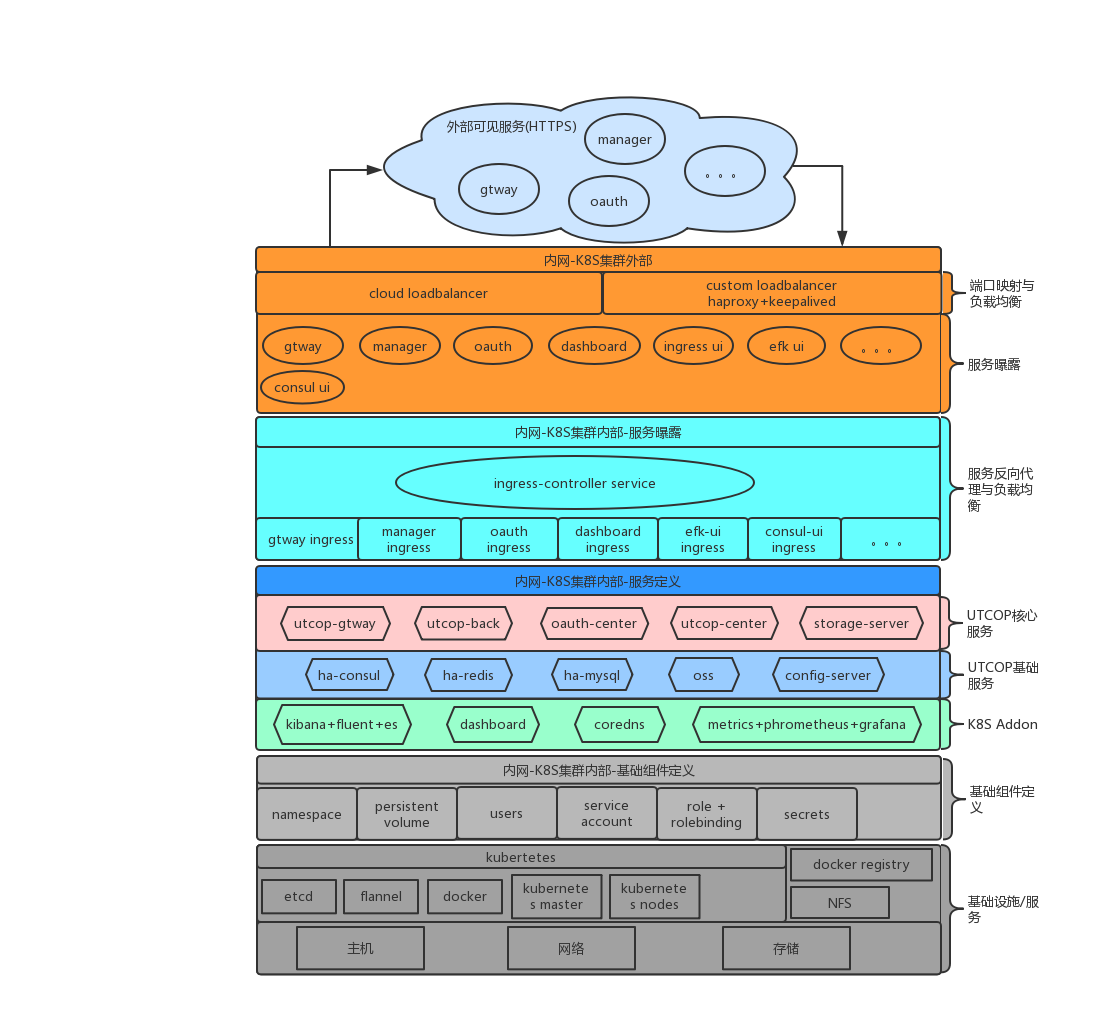
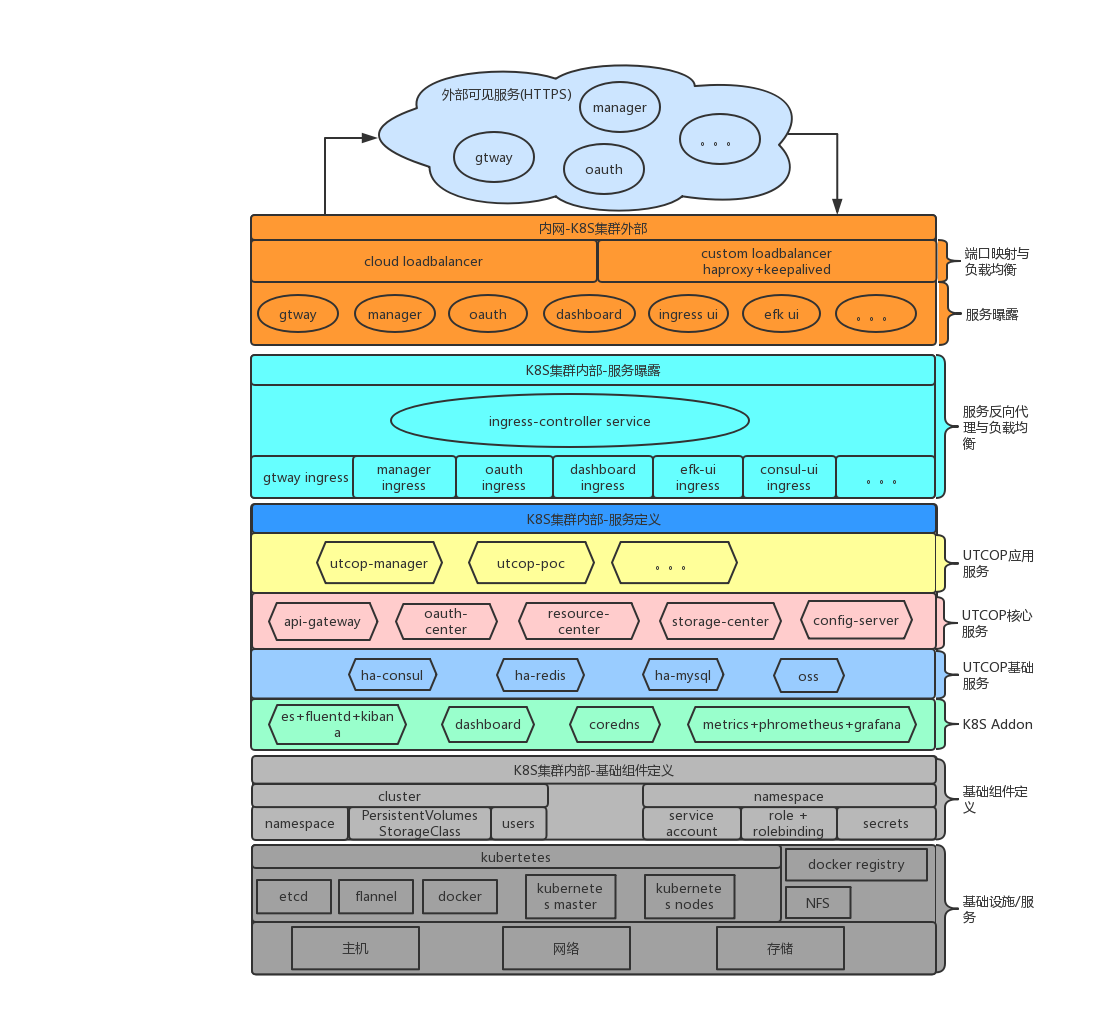
modify

Changed region(s): [[0.2164, 0.0618, 0.9273, 0.9266], [0.2782, 0.834, 0.3091, 0.8958], [0.3091, 0.8958, 0.34, 0.9266]]

diff --git a/utcop/README.md b/utcop/README.md
@@ -55,7 +55,7 @@ Ingress + LB
 ## [版本升级](./servicemng/upgrade.md)
 服务新版本管理：重建、滚动升级
 
-## [日志](./servicemng/loginfo.md)
+## [日志](./servicemng/logging.md)
 容器日志收集、处理和搜索
 
 ## [集群联邦](./servicemng/federa.md)
@@ -63,7 +63,8 @@ Ingress + LB
 
 
 
-
+# 备份与回复
+有状态服务数据的备份与回复，mysql、oss、redis、consul
 
 
 
